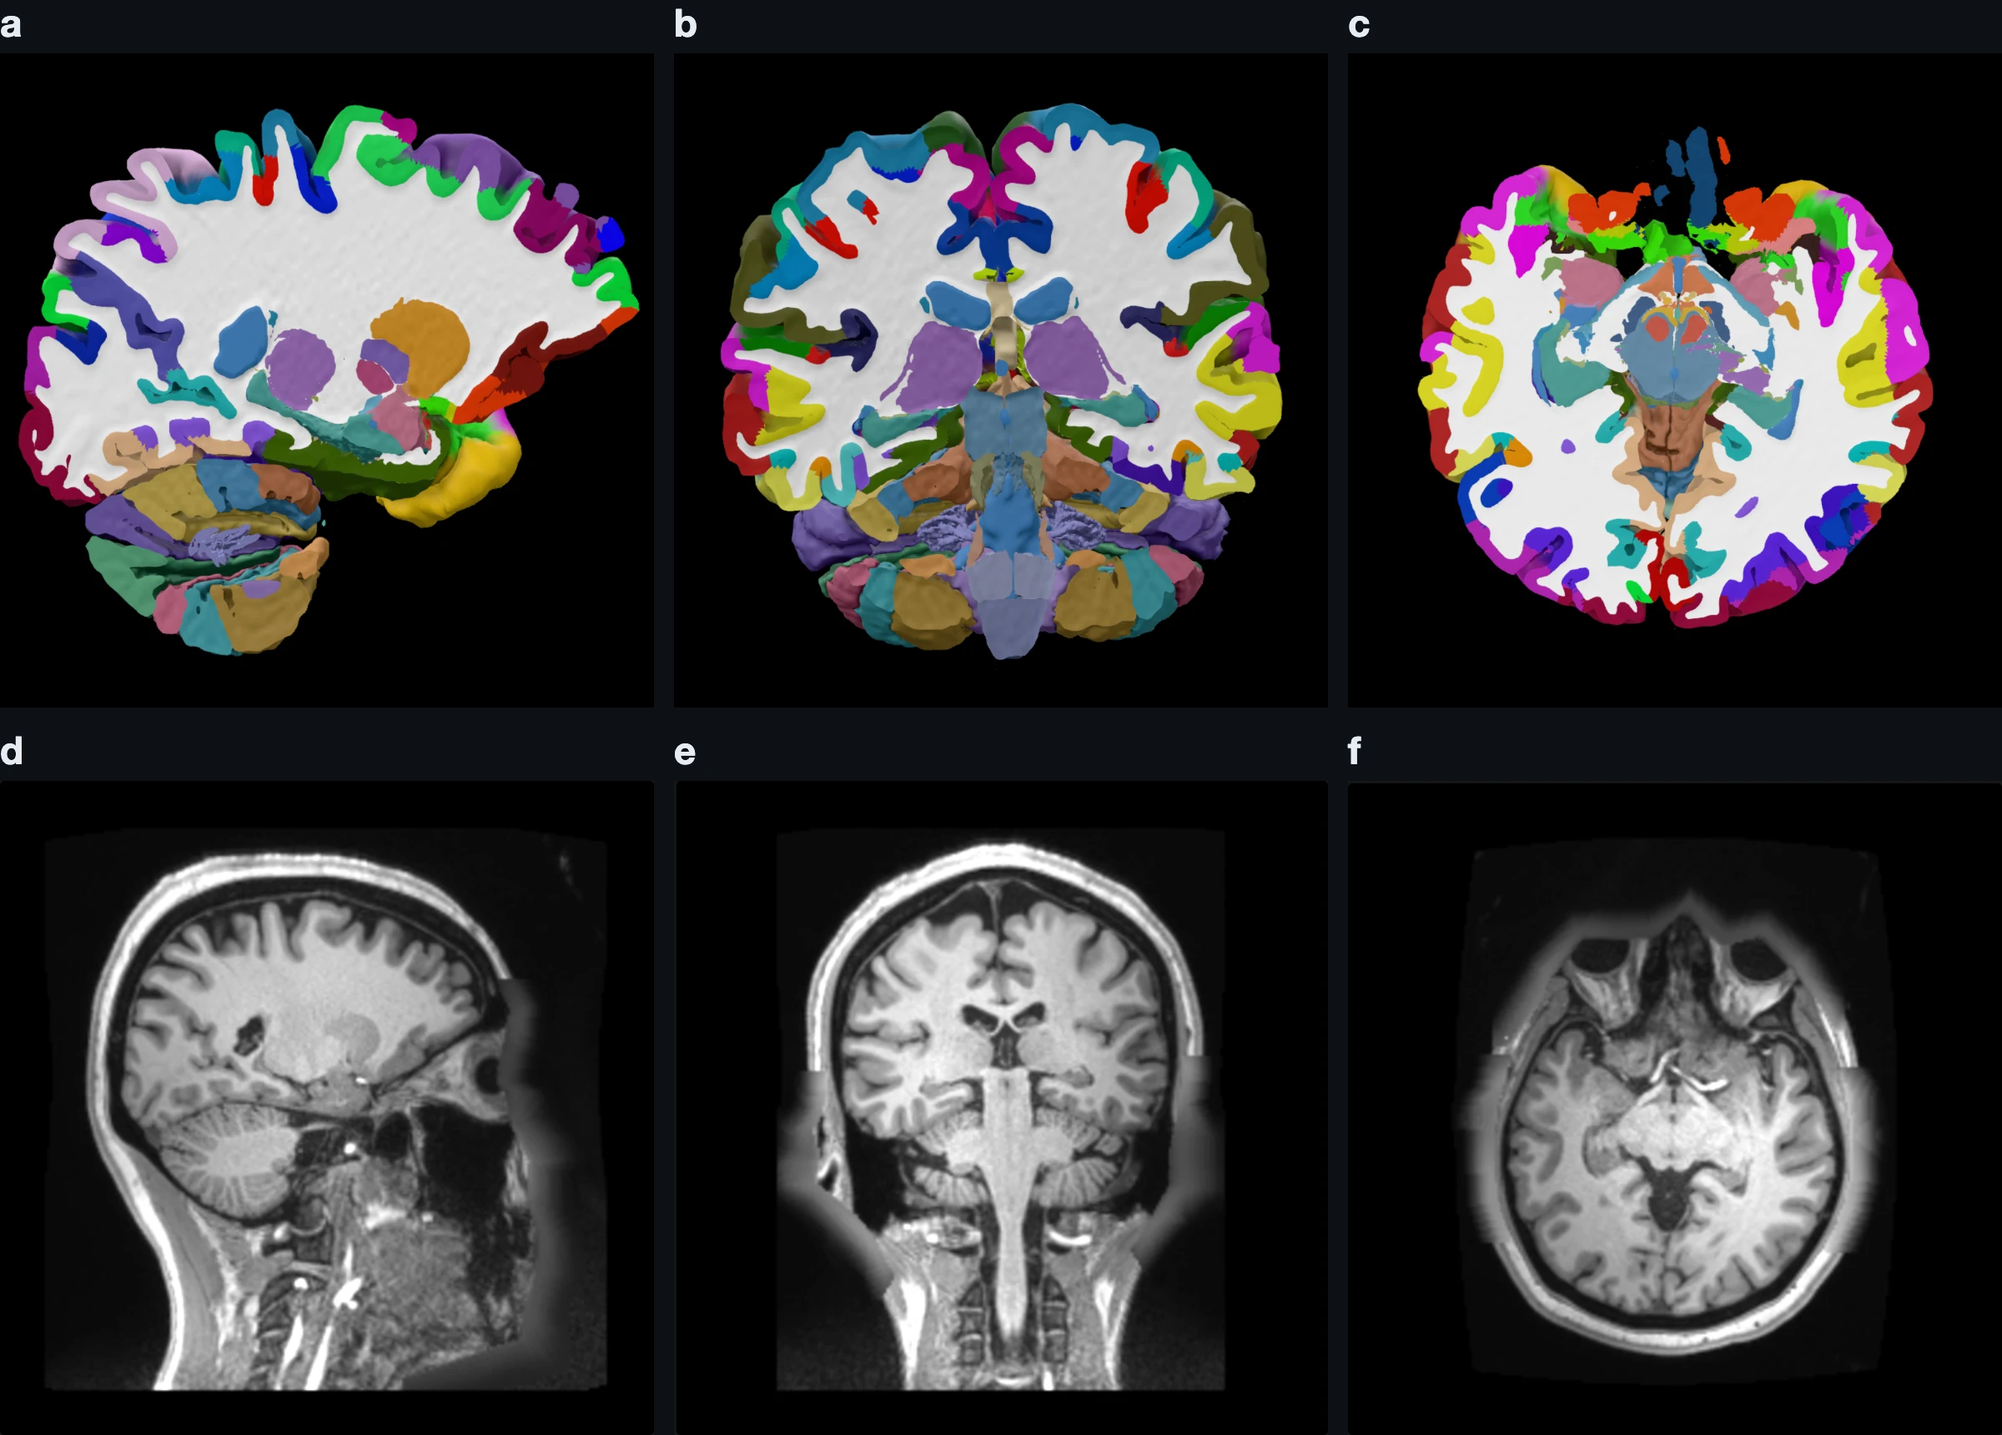
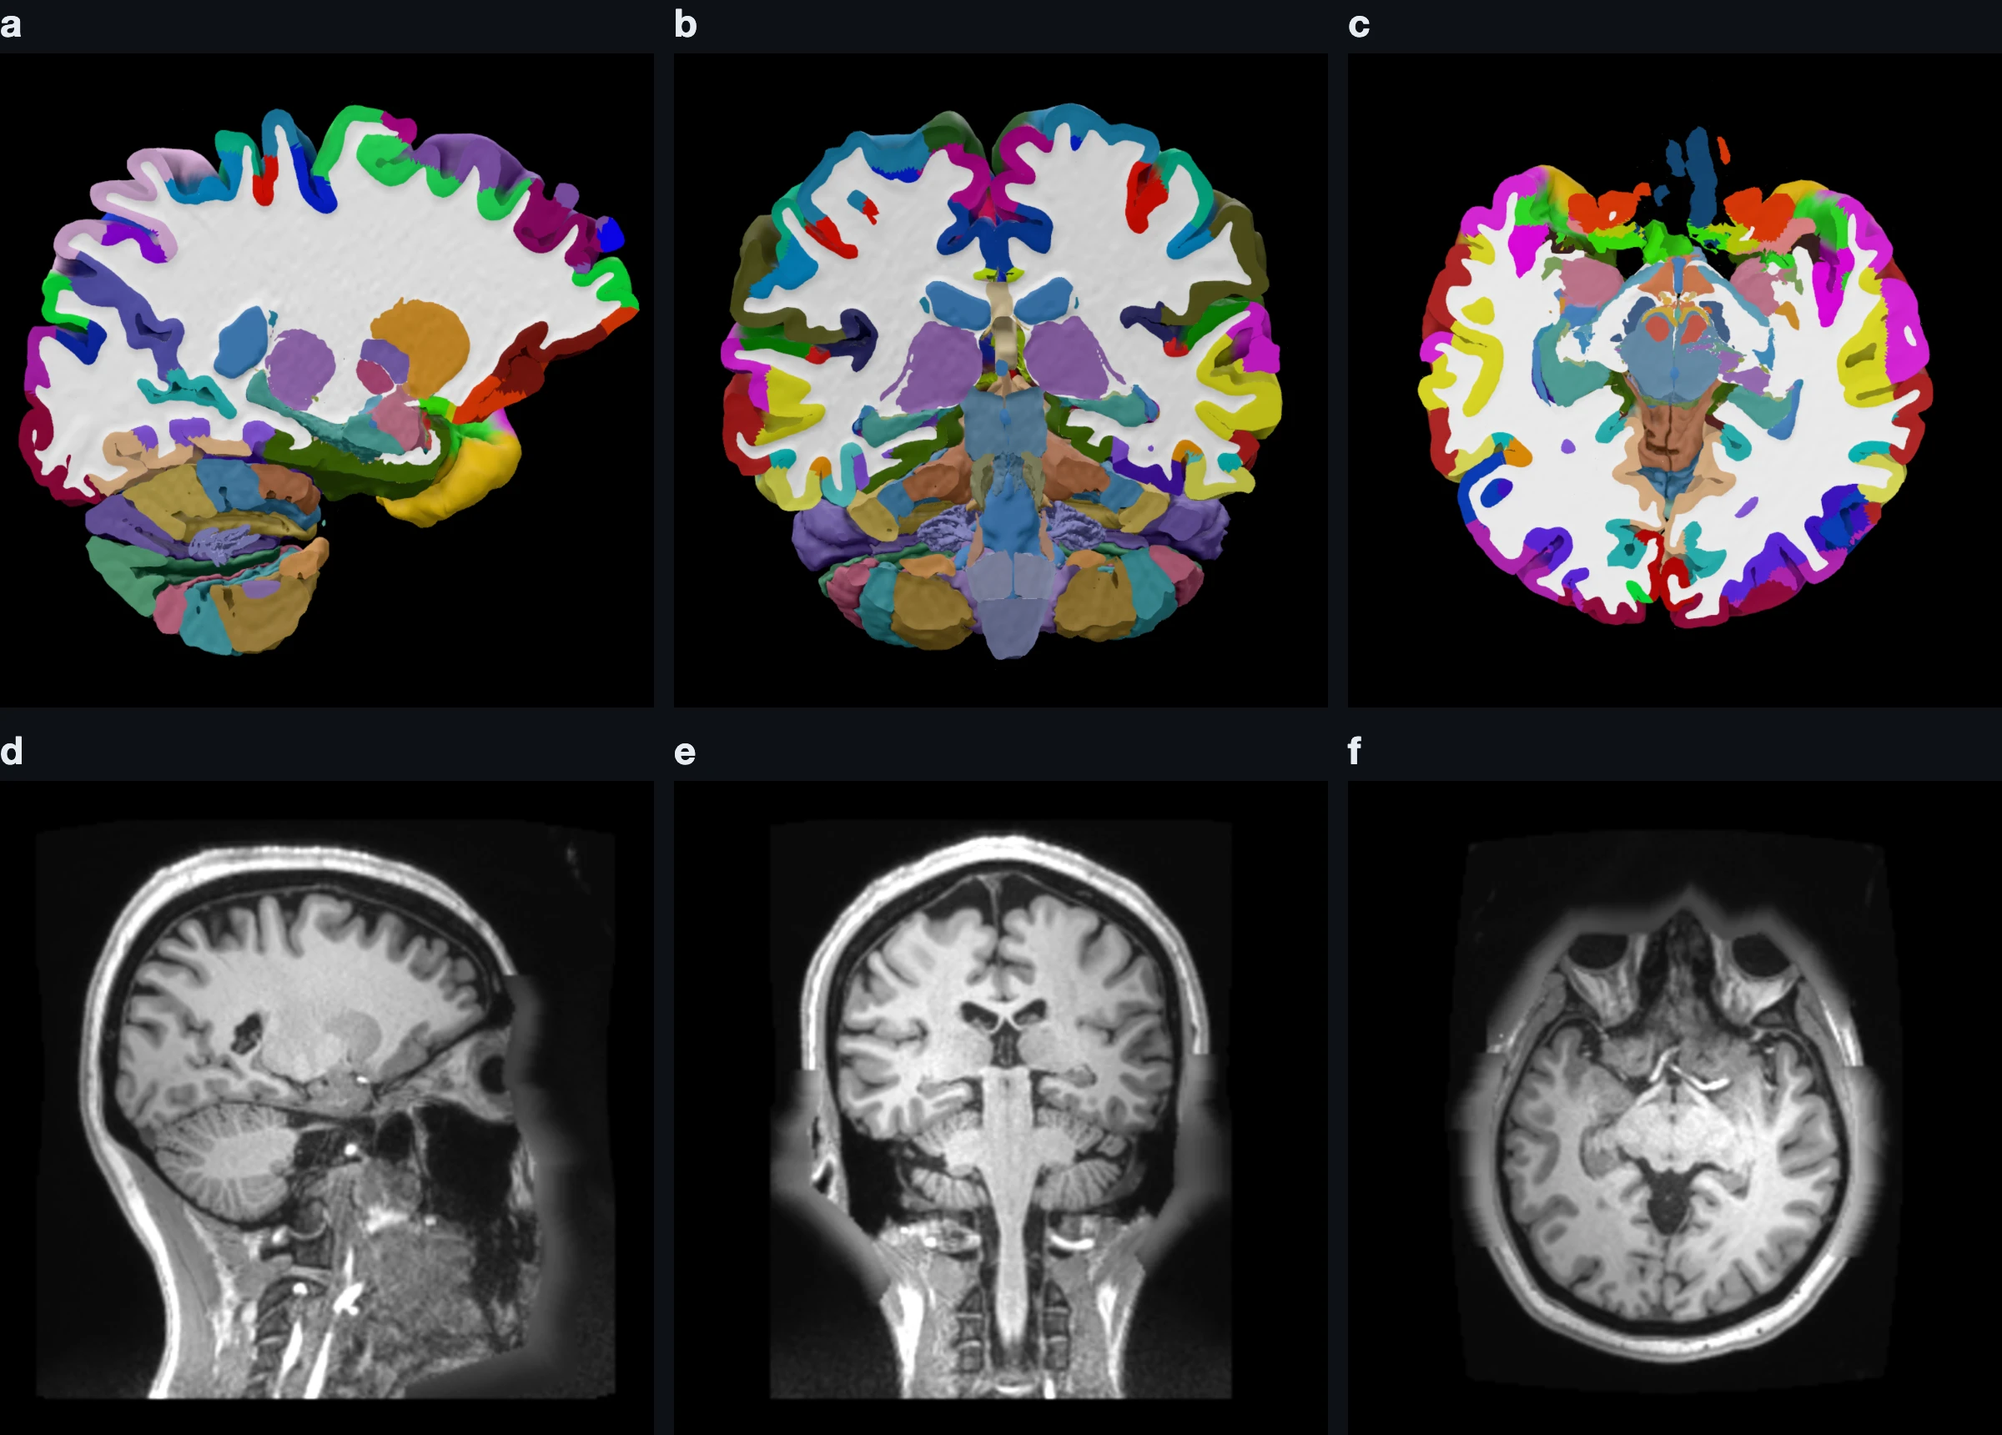
Add an overlay figure to the README and redraw the figures for the new MRI colouring
- Fig. 6 shows the Overlay tool on a published group map: the HCP motor
  task's right hand minus average movement z map (486 people, NeuroVault
  image 3161), on the cortex, a cerebellar and a coronal cut, the same plane
  in Linked MRI, and the cluster table. The figure script downloads the map
  at render time; the README carries the HCP acknowledgement.
- The figure script places panels on a grid that can span cells, shows MRI
  planes and tables whole on their own background, and loads the overlay
  through the tool as a reader would.
- Every README figure is re-rendered from planumatlas.com after the T1 MRI
  colouring, visual field and cortex surface changes; the README text
  describes paints over T1, Linked MRI from profiles, the cortex surface
  and the visual field map's medial pair.
- The methods figures for display (T1 MRI panel) and the visual field map
  (medial pair and predicted response) are redrawn, with the visual field
  caption, alt text and figure-state link updated.

diff --git a/README.md b/README.md
@@ -60,7 +60,7 @@ It runs in any WebGL 2 browser, in English and French, with keyboard and touch c
 
 <sub><b>Fig. 2 | Six colourings of the same left hemisphere.</b> <b>a</b>, <a href="https://planumatlas.com/#anatomy=cdmd&lang=en&atlas=destrieux&cuts=destrieux&detail=learning&view=left">Destrieux</a>, 148 gyral and sulcal parcels. <b>b</b>, <a href="https://planumatlas.com/#anatomy=cdmd&lang=en&atlas=hcp-mmp&cuts=hcp-mmp&detail=learning&view=left">HCP-MMP</a>, 360 multimodal areas. <b>c</b>, <a href="https://planumatlas.com/#anatomy=cdmd&lang=en&atlas=julich&cuts=julich&detail=learning&view=left">Julich-Brain 3.1</a>, 278 cytoarchitectonic areas. <b>d</b>, <a href="https://planumatlas.com/#anatomy=cdmd&lang=en&atlas=schaefer&cuts=schaefer&detail=learning&view=left">Schaefer</a>, 400 parcels in seven-network colours. <b>e</b>, <a href="https://planumatlas.com/#anatomy=cdmd&lang=en&atlas=destrieux&cuts=destrieux&detail=learning&view=left&colors=cab-np">CAB-NP</a>, 12 networks. <b>f</b>, <a href="https://planumatlas.com/#anatomy=cdmd&lang=en&atlas=destrieux&cuts=destrieux&detail=learning&view=left&colors=territory">Arterial territories</a> (Liu et al., 2023). Same camera and scale in every panel.</sub>
 
-Four cortical atlases share one surface, and the cortex can also be coloured by Yeo or CAB-NP networks, arterial territory or the subject’s T1. Beneath it, choose NextBrain’s 514 labels at 0.4 mm (292 meshed structures and 222 more on cut faces), FreeSurfer’s 32 aseg structures or a 106-structure teaching set, down through the brainstem, the cerebellar lobules and the cervical cord. A selected region reports its volume or surface area, centroid and source labels; **Focus**, **Isolate** and **Hide** dissect it in context.
+Four cortical atlases share one surface, and the cortex can also be coloured by Yeo or CAB-NP networks, arterial territory or the subject’s T1, and drawn on the pial, mid-thickness or white surface to open the sulci. Beneath it, choose NextBrain’s 514 labels at 0.4 mm (292 meshed structures and 222 more on cut faces), FreeSurfer’s 32 aseg structures or a 106-structure teaching set, down through the brainstem, the cerebellar lobules and the cervical cord. A selected region reports its volume or surface area, centroid and source labels; **Focus**, **Isolate** and **Hide** dissect it in context.
 
 Methods: [cortical atlases](https://planumatlas.com/docs/features/cortical-atlases.html) · [internal anatomy](https://planumatlas.com/docs/features/internal-anatomy.html) · [spinal cord](https://planumatlas.com/docs/features/spinal-cord.html) · [dissection and display](https://planumatlas.com/docs/features/dissection-and-display.html)
 
@@ -73,7 +73,7 @@ Methods: [cortical atlases](https://planumatlas.com/docs/features/cortical-atlas
 
 <sub><b>Fig. 3 | Capped sections and the subject’s own scan.</b> <b>a–c</b>, <a href="https://planumatlas.com/#anatomy=cdmd&lang=en&atlas=destrieux&cuts=destrieux&detail=learning&cut=sagittal&pos=-20&view=right">Sagittal</a> (x = −20 mm, from the right), <a href="https://planumatlas.com/#anatomy=cdmd&lang=en&atlas=destrieux&cuts=destrieux&detail=learning&cut=coronal&pos=-20&view=anterior">coronal</a> (y = −20 mm, from the front) and <a href="https://planumatlas.com/#anatomy=cdmd&lang=en&atlas=destrieux&cuts=destrieux&detail=learning&cut=axial&pos=12&view=superior">axial</a> (z = 12 mm, from above) cuts; each structure is capped where the plane meets it, coloured from the Destrieux cut labels. <b>d–f</b>, The T1-weighted scan in the same planes, as <b>Linked MRI</b> shows it. Positions are FreeSurfer surface RAS.</sub>
 
-Cut sagittally, coronally, axially or at any oblique angle. Cap colours come from the chosen label volume, not from the meshes, so the same cut can show Destrieux, HCP-MMP, Julich-Brain, Schaefer, NextBrain, arterial, cerebellar or striatal labels. **Linked MRI** opens the scan in three planes around a shared crosshair, with window and level, a segmentation overlay, the label at the crosshair and PNG export.
+Cut sagittally, coronally, axially or at any oblique angle. Cap colours come from the chosen label volume, not from the meshes, so the same cut can show Destrieux, HCP-MMP, Julich-Brain, Schaefer, NextBrain, arterial, cerebellar or striatal labels. **Linked MRI** opens the scan in three planes around a shared crosshair, with window and level, a segmentation overlay, the label at the crosshair and PNG export. It also opens from a function’s or deficit’s profile and draws that paint on the scan.
 
 Methods: [sections and cuts](https://planumatlas.com/docs/features/sections-and-cuts.html) · [linked MRI](https://planumatlas.com/docs/features/linked-mri.html) · [boundary certainty](https://planumatlas.com/docs/features/boundary-certainty.html) · [segmentation agreement](https://planumatlas.com/docs/features/segmentation-agreement.html)
 
@@ -99,7 +99,7 @@ Methods: [tracts](https://planumatlas.com/docs/features/tracts.html)
 
 <sub><b>Fig. 5 | Group evidence on one anatomy.</b> <b>a</b>, <a href="https://planumatlas.com/#anatomy=cdmd&lang=en&atlas=hcp-mmp&cuts=hcp-mmp&detail=learning&tab=functions&function=spatial-attention&view=right">Where studies of healthy groups report activation for spatial attention</a> (Neurosynth, HCP-MMP areas with z ≥ 3). <b>b</b>, <a href="https://planumatlas.com/#anatomy=cdmd&lang=en&atlas=destrieux&cuts=destrieux&detail=learning&tab=deficits&deficit=neglect&view=right">Regions cited for hemispatial neglect</a>, one colour per published finding. <b>c</b>, <a href="https://planumatlas.com/#anatomy=cdmd&lang=en&atlas=destrieux&cuts=destrieux&detail=learning&region=destrieux:left:4&cases=M2295,M2272">Two Aphasia Recovery Cohort lesions</a> and their overlap, with the left subcentral region outlined.</sub>
 
-These layers place published evidence beside the anatomy with its sources and limits in view. They describe group findings, templates and spatial overlap; they are not measurements of this individual or predictions for a patient.
+These layers place published evidence beside the anatomy with its sources and limits in view. A paint can also be drawn over the subject’s T1, which shows wherever nothing is painted. The layers describe group findings, templates and spatial overlap; they are not measurements of this individual or predictions for a patient.
 
 | Layer | What it shows |
 | :--- | :--- |
@@ -108,12 +108,19 @@ These layers place published evidence beside the anatomy with its sources and li
 | [Circuits](https://planumatlas.com/docs/features/circuits.html) | Five guided pathways with 25 landmarks and notes on the relays they omit. |
 | [Stroke cases](https://planumatlas.com/docs/features/stroke-cases.html) | 228 Aphasia Recovery Cohort lesions, with lesion volume and WAB aphasia quotient. |
 | [Stimulation responses](https://planumatlas.com/docs/features/stimulation-responses.html) | SEEG response rates with their sample counts, from Lyu et al. (27 people) and F-TRACT v2307 (613 people). |
-| [Visual field map](https://planumatlas.com/docs/features/visual-field-map.html) | V1–V3 predicted from this brain’s folding by the Benson template; no retinotopy was measured. |
+| [Visual field map](https://planumatlas.com/docs/features/visual-field-map.html) | The V1–V3 response to a dot in the visual field, predicted from this brain’s folding by the Benson template and a pRF model, on both hemispheres side by side; no retinotopy was measured. |
 | [Functional networks](https://planumatlas.com/docs/features/functional-networks.html) | Yeo 7 and CAB-NP 12 networks, with [cerebellar](https://planumatlas.com/docs/features/cerebellar-functions.html) and [striatal](https://planumatlas.com/docs/features/striatal-networks.html) counterparts and [functional divisions](https://planumatlas.com/docs/features/functional-divisions.html). |
 
 A selected region also opens its [atlas comparison](https://planumatlas.com/docs/features/atlas-comparison.html), [receptor fingerprint](https://planumatlas.com/docs/features/receptor-fingerprints.html) (up to 17 receptors), [arterial territory](https://planumatlas.com/docs/features/arterial-territories.html) and [boundary certainty](https://planumatlas.com/docs/features/boundary-certainty.html).
 
 ## Bring your own data
+
+<picture>
+  <source media="(prefers-color-scheme: dark)" srcset=".github/assets/readme/overlay-dark.webp">
+  <img src=".github/assets/readme/overlay-light.webp" alt="Five panels of a motor task map in red and blue on a grey brain. a, the left hemisphere with a red hand area and a blue patch below it, and a colour key. b, a sagittal cut with two red cerebellar clusters. c, a coronal cut with red in the left motor cortex and blue in the right. d, the same coronal plane on the T1-weighted MRI. e, the cluster table with peak values, coordinates and volumes.">
+</picture>
+
+<sub><b>Fig. 6 | A published group map, opened in the Overlay tool.</b> HCP motor task, right hand minus the average of all movements: the group z map of 486 people (<a href="https://neurovault.org/images/3161/">NeuroVault image 3161</a>), in FSL’s MNI152, opened as an MNI map of unstated template and drawn at |z| > 10, colours to 25. <b>a</b>, Left hemisphere, with the key titled in the tool: the hand area of the left motor cortex in red, the precentral cortex below it, where the other movements dominate, in blue. <b>b</b>, Sagittal cut at x = 18 mm, seen from the right: two right cerebellar clusters, the hand representations ipsilateral to the moving hand. <b>c</b>, Coronal cut at y = −22 mm, seen from the front: red in the left motor cortex, blue in the right. <b>d</b>, The same plane on the subject’s T1 in <b>Linked MRI</b>. <b>e</b>, The cluster table, computed as nilearn’s <code>get_clusters_table</code> computes it, in template millimetres. Data: Human Connectome Project, WU-Minn Consortium.</sub>
 
 - **[Published coordinates](https://planumatlas.com/docs/features/published-coordinates.html).** Place a coordinate from MNI152NLin2009cAsym or SPM12 space on this brain and read the regions around it.
 - **[Overlays](https://planumatlas.com/docs/features/overlays.html).** Open an MNI-space NIfTI-1 map or 4D series and draw it on the surfaces, cut faces and MRI, with thresholds, clusters and a region time course. The file is read in the browser and never uploaded.
@@ -195,7 +202,7 @@ Each methods page lists the commands that rebuild and test its feature under **C
 node scripts/readme-figures.mjs
 ```
 
-The [figure script](scripts/readme-figures.mjs) captures each panel from [planumatlas.com](https://planumatlas.com/) with Playwright’s Chromium (installed for `web/`), hides the stage controls, crops each capture to its content without recolouring it, and writes light and dark versions to [`.github/assets/readme/`](.github/assets/readme). Pass another origin, such as a local server, as the first argument, or name figures to render only those.
+The [figure script](scripts/readme-figures.mjs) captures each panel from [planumatlas.com](https://planumatlas.com/) with Playwright’s Chromium (installed for `web/`), hides the stage controls, crops each capture to its content without recolouring it, and writes light and dark versions to [`.github/assets/readme/`](.github/assets/readme). For Fig. 6 it downloads the HCP map from NeuroVault and opens it in the Overlay tool, as a reader would. Pass another origin, such as a local server, as the first argument, or name figures to render only those.
 
 </details>
 
@@ -235,3 +242,5 @@ The code is licensed under the [GNU AGPL 3.0 or later](LICENSE): anyone who runs
 | BSD-2-Clause | Aphasia Recovery Cohort normalised lesions |
 
 Some terms are non-commercial or require attribution. Consult the [references, licences and acknowledgements](https://planumatlas.com/docs/reference/references.html) before reusing any data.
+
+The map in Fig. 6 is not distributed with Planum; [the figure script](scripts/readme-figures.mjs) downloads it from NeuroVault. Data were provided by the Human Connectome Project, WU-Minn Consortium (Principal Investigators: David Van Essen and Kamil Ugurbil; 1U54MH091657) funded by the 16 NIH Institutes and Centers that support the NIH Blueprint for Neuroscience Research; and by the McDonnell Center for Systems Neuroscience at Washington University.

diff --git a/docs/features/visual-field-map.md b/docs/features/visual-field-map.md
@@ -3,10 +3,10 @@
 A dot placed in the visual field lights the cortex of V1, V2 and V3 predicted to represent it, and the area of that cortex is reported in mm². The prediction is the Benson anatomical template (v4.0), fitted to the group average of 181 Human Connectome Project (HCP) 7T retinotopy participants and carried from `fsaverage` onto CDMD through the registered spheres. It is a prediction from folding, not a measurement: no retinotopy was scanned in this brain.
 
 ```{figure} figures/visual-field-map-1.webp
-:alt: Two rows. Each shows the visual-field disc with a dot 5 degrees from fixation and its predicted V1, V2 and V3 territory in square millimetres, beside the medial occipital cortex of one hemisphere with V1 to V3 in greys and the dot's territory in teal. Top, upper-right dot, left hemisphere, 38, 32 and 34 square millimetres. Bottom, lower-left dot, right hemisphere, 85, 37 and 65 square millimetres.
+:alt: Two rows. Each shows the visual-field disc with a dot 5 degrees from fixation, its caption and its predicted V1, V2 and V3 territory in square millimetres, beside the occipital lobes of both hemispheres seen from the midline, the right hemisphere on the left of the image and the left on the right, V1 to V3 in greys and the predicted response in red to yellow. Top, upper-right dot, a red-to-yellow patch below the calcarine sulcus of the left hemisphere; 38, 32 and 34 square millimetres. Bottom, lower-left dot, a patch above the calcarine sulcus of the right hemisphere; 85, 37 and 65 square millimetres.
 :name: fig-visual-field-map-1
 
-**Each quarter of the visual field is predicted in the opposite hemisphere and the opposite bank of the calcarine sulcus.** **a**, Dot at (4°, 3°), radius 1.5°, upper right: left hemisphere, ventral to the calcarine sulcus; predicted territory V1 38 mm², V2 32 mm², V3 34 mm². **b**, Dot at (−4°, −3°), radius 1.5°, lower left: right hemisphere, dorsal (cuneus); V1 85 mm², V2 37 mm², V3 65 mm². Disc: eccentricity on a log scale, dashed ring at the measured 8°. Stage: CDMD, Destrieux atlas, one hemisphere seen from the midline; V1, V2 and V3 in three greys, cortex outside V1–V3 near black, the dot's core in teal and its one-σ reach fainter. Territories agree with a recomputation from `retinotopy.json` to 0.5 mm².
+**Each quarter of the visual field is predicted in the opposite hemisphere and the opposite bank of the calcarine sulcus.** **a**, Dot at (4°, 3°), radius 1.5°, upper right: left hemisphere, ventral to the calcarine sulcus; predicted territory V1 38 mm², V2 32 mm², V3 34 mm². **b**, Dot at (−4°, −3°), radius 1.5°, lower left: right hemisphere, dorsal (cuneus); V1 85 mm², V2 37 mm², V3 65 mm². Disc: eccentricity on a log scale, dashed ring at the measured 8°. Stage: CDMD, Destrieux atlas, both hemispheres as the medial pair seen from the subject's right (right hemisphere on the image's left), cropped to the occipital lobes; V1, V2 and V3 in three greys, cortex outside V1–V3 near black, and the predicted response from 0.159 (red) to 1 (yellow). Territories agree with a recomputation from `retinotopy.json` to 0.5 mm².
 ```
 
 ## Data
@@ -101,4 +101,4 @@ uv run python -m brain_model.validate --anatomy cdmd
 uv run pytest tests/test_retinotopy.py
 ```
 
-Figure state (panel a; choose **Return to map view** after opening; panel b uses `dot=-4,-3,1.5`): https://planumatlas.com/#anatomy=cdmd&atlas=destrieux&tab=circuits&map=visual-field&dot=4,3,1.5
+Figure state (panel a; panel b uses `dot=-4,-3,1.5`): https://planumatlas.com/#anatomy=cdmd&atlas=destrieux&tab=circuits&map=visual-field&view=right&internal=0&dot=4,3,1.5
